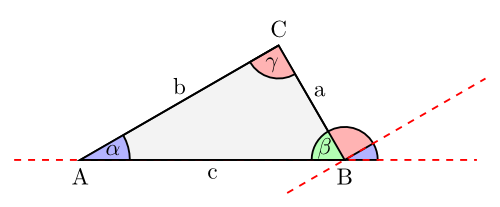
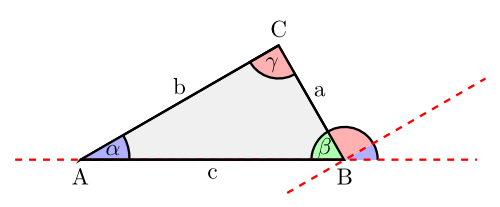
removed tikz.snakes

diff --git a/tikz/triangle-angles/triangle-angles.tex b/tikz/triangle-angles/triangle-angles.tex
@@ -2,7 +2,7 @@
     \usepackage[pdftex,active,tightpage]{preview}
     \setlength\PreviewBorder{2mm}
     \usepackage{tikz}
-    \usetikzlibrary{shapes, calc, shapes,snakes} 
+    \usetikzlibrary{shapes, calc, shapes, decorations} 
     \usepackage{amsmath,amssymb}
 
     \begin{document}

diff --git a/tikz/tut-uebung-vorlesung/tut-uebung-vorlesung.tex b/tikz/tut-uebung-vorlesung/tut-uebung-vorlesung.tex
@@ -7,7 +7,7 @@
 \usepackage[pdftex,active,tightpage]{preview}
 \setlength\PreviewBorder{2mm}
 \usepackage{tikz}
-\usetikzlibrary{shapes,snakes,calc,patterns} 
+\usetikzlibrary{shapes,decorations,calc,patterns} 
 \usepackage{amsmath,amssymb}
 \begin{document}
 \begin{preview}

diff --git a/tikz/center-two-cluster/tikz.py b/tikz/center-two-cluster/tikz.py
@@ -8,7 +8,7 @@ print """\documentclass{article}
 \usepackage{tikz}
 \usepackage{tkz-fct}
 \usetikzlibrary{shapes.misc}
-\usetikzlibrary{shapes, calc, shapes,snakes} 
+\usetikzlibrary{shapes, calc, decorations} 
 \usepackage{amsmath,amssymb}
 
 \\begin{document}

diff --git a/tikz/venn-diagramm/venn-diagramm.tex b/tikz/venn-diagramm/venn-diagramm.tex
@@ -2,7 +2,7 @@
 \usepackage[pdftex,active,tightpage]{preview}
 \setlength\PreviewBorder{2mm}
 \usepackage{tikz}
-\usetikzlibrary{shapes,snakes,calc} 
+\usetikzlibrary{shapes,decorations,calc} 
 \usepackage{amsmath,amssymb}
 \begin{document}
 \begin{preview}

diff --git a/tikz/arc/arc.tex b/tikz/arc/arc.tex
@@ -2,7 +2,7 @@
 \usepackage[pdftex,active,tightpage]{preview}
 \setlength\PreviewBorder{2mm}
 \usepackage{tikz}
-\usetikzlibrary{shapes, calc, shapes,snakes} 
+\usetikzlibrary{shapes, calc, decorations} 
 \usepackage{amsmath,amssymb}
 
 \begin{document}

diff --git a/tikz/triangle-heron-tricky/triangle-heron-tricky.tex b/tikz/triangle-heron-tricky/triangle-heron-tricky.tex
@@ -2,7 +2,7 @@
 \usepackage[pdftex,active,tightpage]{preview}
 \setlength\PreviewBorder{2mm}
 \usepackage{tikz}
-\usetikzlibrary{shapes, calc, shapes,snakes} 
+\usetikzlibrary{shapes, calc, decorations} 
 \usepackage{amsmath,amssymb}
 
 \begin{document}

diff --git a/tikz/triangle/triangle.tex b/tikz/triangle/triangle.tex
@@ -2,7 +2,7 @@
 \usepackage[pdftex,active,tightpage]{preview}
 \setlength\PreviewBorder{2mm}
 \usepackage{tikz}
-\usetikzlibrary{shapes, calc, shapes,snakes} 
+\usetikzlibrary{shapes, calc, decorations} 
 \usepackage{amsmath,amssymb}
 
 \begin{document}

diff --git a/tikz/missing-square-fibonacci/missing-square-fibonacci.tex b/tikz/missing-square-fibonacci/missing-square-fibonacci.tex
@@ -2,7 +2,7 @@
 \usepackage[pdftex,active,tightpage]{preview}
 \setlength\PreviewBorder{2mm}
 \usepackage{tikz}
-\usetikzlibrary{shapes, calc, shapes,snakes} 
+\usetikzlibrary{shapes, calc, snakes} 
 \usepackage{amsmath,amssymb}
 
 \begin{document}

diff --git a/tikz/center-two-cluster/center-two-cluster.tex b/tikz/center-two-cluster/center-two-cluster.tex
@@ -4,7 +4,7 @@
 \usepackage{tikz}
 \usepackage{tkz-fct}
 \usetikzlibrary{shapes.misc}
-\usetikzlibrary{shapes, calc, shapes,snakes} 
+\usetikzlibrary{shapes, calc, shapes, decorations} 
 \usepackage{amsmath,amssymb}
 
 \begin{document}

diff --git a/tikz/url-structure/url-structure.tex b/tikz/url-structure/url-structure.tex
@@ -2,7 +2,7 @@
 \usepackage[pdftex,active,tightpage]{preview}
 \setlength\PreviewBorder{2mm}
 \usepackage{tikz}
-\usetikzlibrary{shapes,snakes} 
+\usetikzlibrary{shapes, decorations} 
 \usepackage{amsmath,amssymb}
 
 \begin{document}

diff --git a/tikz/center-line/center-line.tex b/tikz/center-line/center-line.tex
@@ -4,7 +4,7 @@
 \usepackage{tikz}
 \usepackage{tkz-fct}
 \usetikzlibrary{shapes.misc}
-\usetikzlibrary{shapes, calc, shapes,snakes} 
+\usetikzlibrary{shapes, calc, decorations} 
 \usepackage{amsmath,amssymb}
 
 \begin{document}

diff --git a/tikz/center/center.tex b/tikz/center/center.tex
@@ -4,7 +4,7 @@
 \usepackage{tikz}
 \usepackage{tkz-fct}
 \usetikzlibrary{shapes.misc}
-\usetikzlibrary{shapes, calc, shapes,snakes} 
+\usetikzlibrary{shapes, calc, decorations} 
 \usepackage{amsmath,amssymb}
 
 \begin{document}
